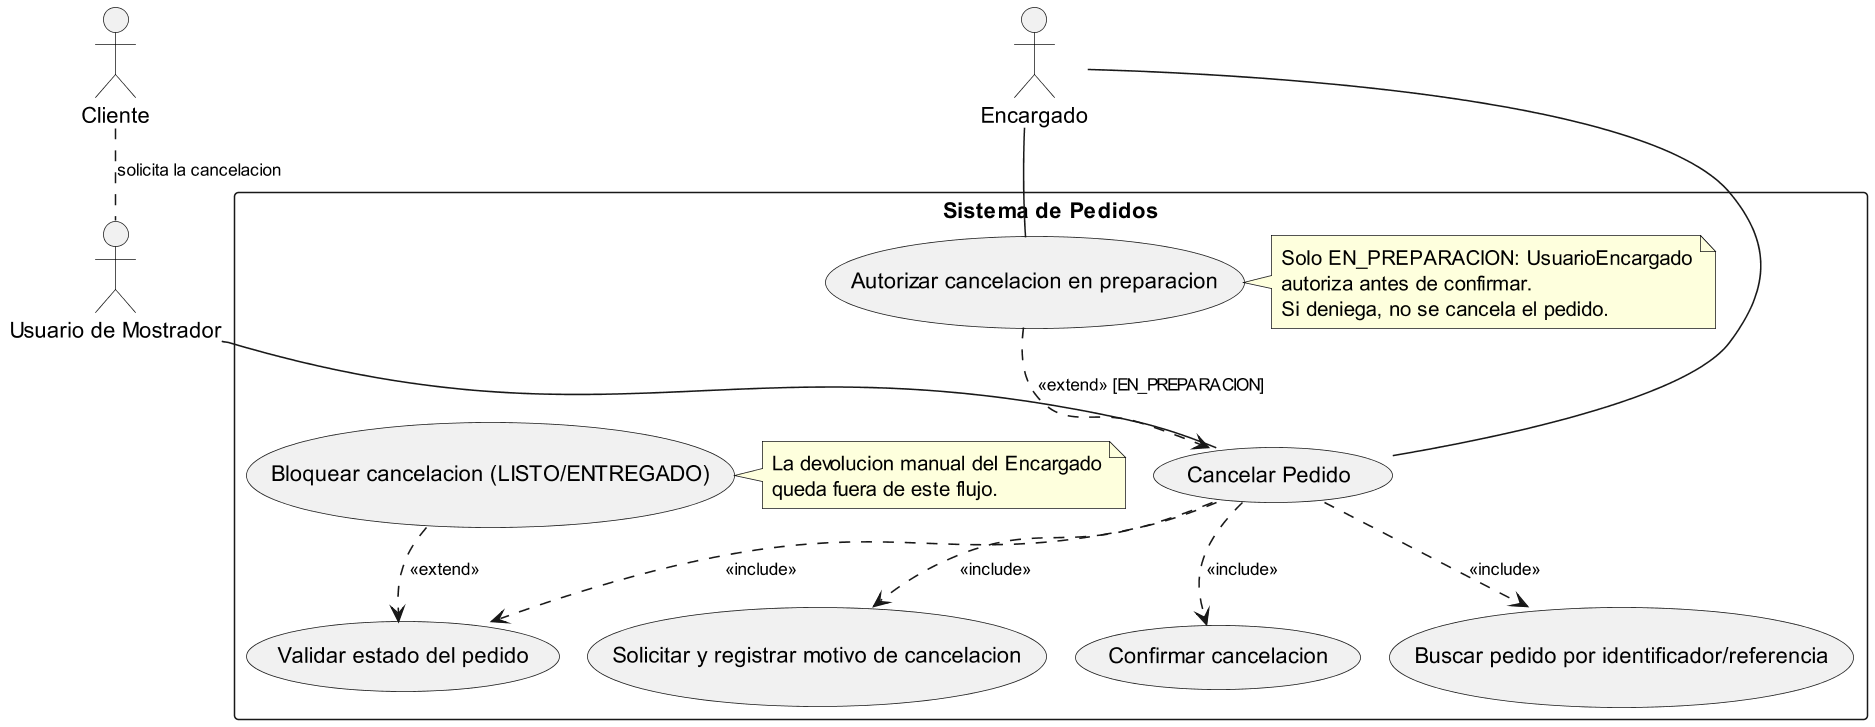
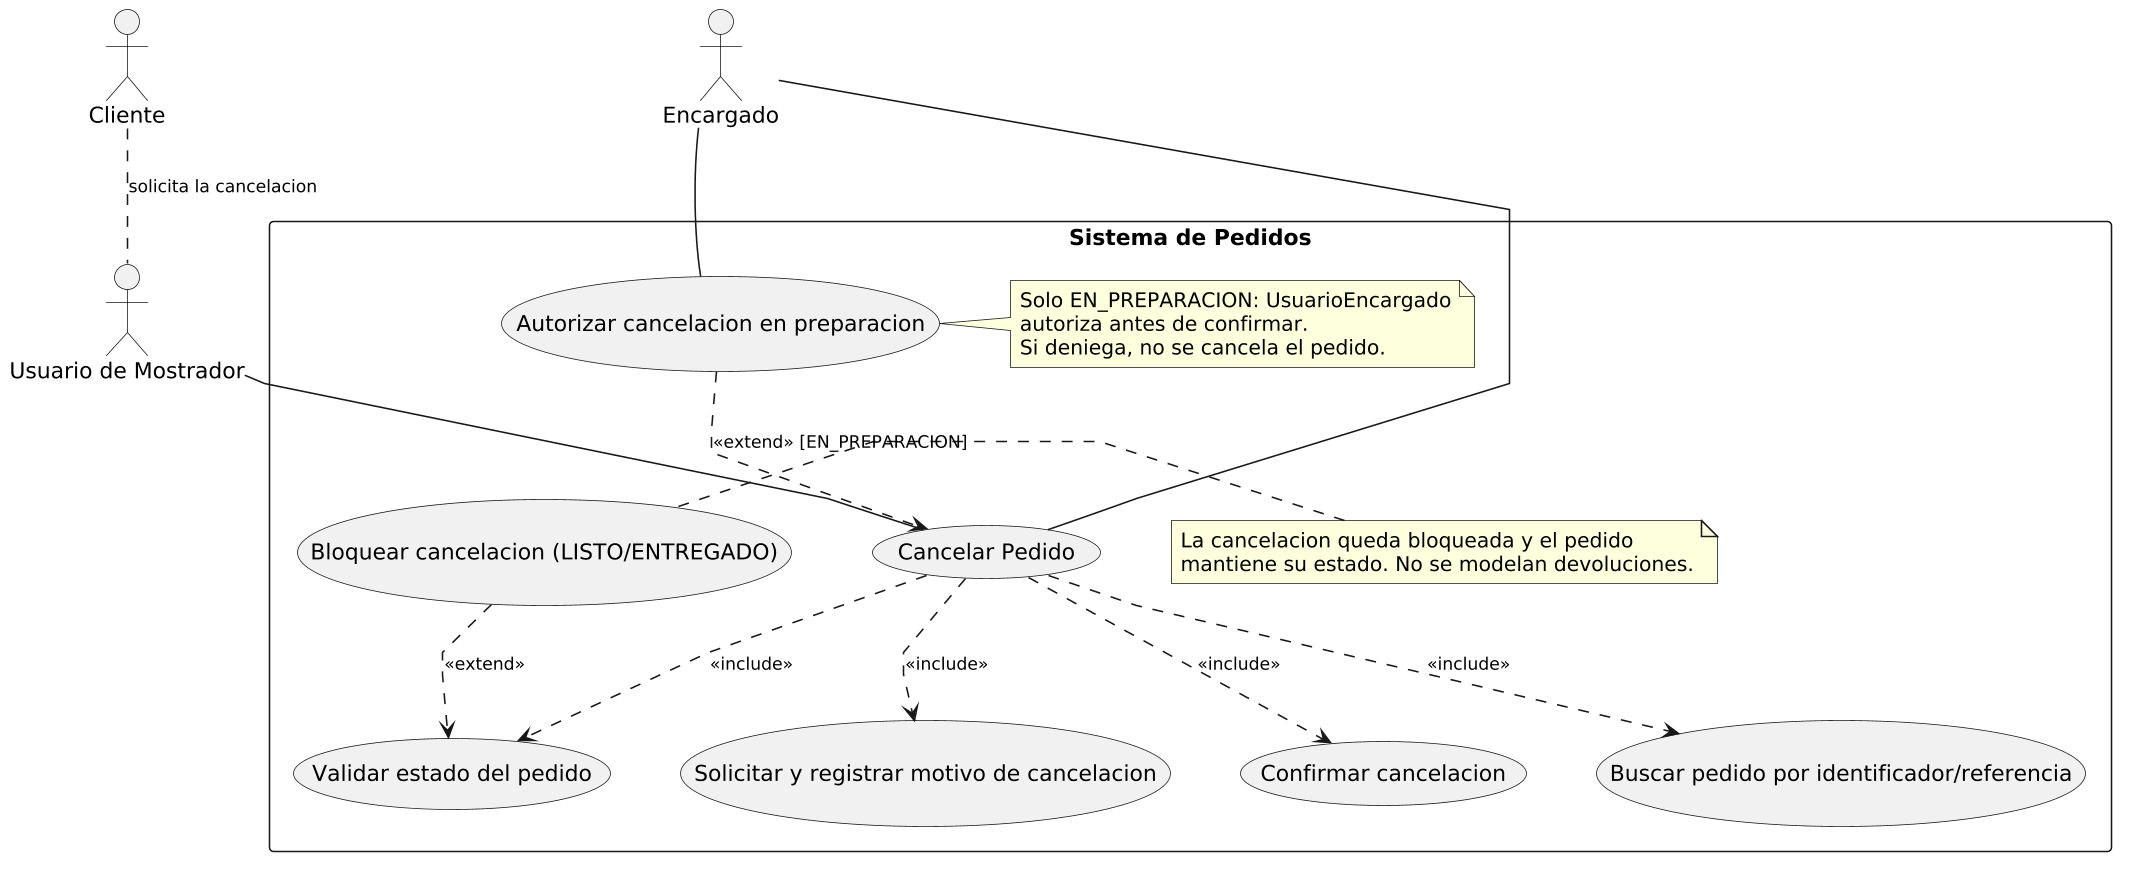
fix: dejo bloqueada la cancelación de pedidos LISTO o ENTREGADO sin devolución manual y marco el pago QR como extensión futura (RC21, RC22)

diff --git a/anexos/analisis-funcional/03-caso-de-uso-cancelar-pedido.md b/anexos/analisis-funcional/03-caso-de-uso-cancelar-pedido.md
@@ -28,7 +28,7 @@
 
 - **A1: Pedido en estado EN_PREPARACION.** El sistema solicita autorización del Encargado. Si la autorización es válida, permite continuar con el motivo y la confirmación de la cancelación.
 - **A2: Autorización denegada.** Si el Encargado no autoriza la operación o la clave de supervisión es incorrecta, el sistema rechaza la cancelación y mantiene el estado original del pedido.
-- **A3: Pedido en estado LISTO o ENTREGADO.** El sistema bloquea la cancelación automática e informa que la operación no está permitida.
+- **A3: Pedido en estado LISTO o ENTREGADO.** El sistema bloquea la cancelación, mantiene el estado original del pedido e informa que la operación no está permitida. El sistema no modela devoluciones de dinero: la cancelación de un pedido LISTO o ENTREGADO no está disponible en ningún flujo.
 - **A4: Cancelación no confirmada.** Si el usuario desiste de la operación, el sistema mantiene el estado original del pedido.
 - **A5: Pedido inexistente.** Si el sistema no encuentra el pedido solicitado, informa el error y finaliza la operación.
 - **A6: Pedido ya CANCELADO.** Si el pedido ya se encuentra cancelado, el sistema impide repetir la operación y conserva su estado definitivo.
@@ -39,7 +39,7 @@
 |---|---|---|
 | RF3 | **Seguimiento y visualización del estado del pedido.** El sistema debe permitir al personal visualizar sincronizadamente los pedidos activos y controlar su ciclo de vida mediante un único estado secuencial y restringido: *Recibido*, *En preparación*, *Listo*, *Entregado* y *Cancelado*, garantizando una única fuente de verdad para evitar duplicaciones. | Consulta el estado actual del pedido y registra su transición a CANCELADO cuando corresponde. |
 | RF5 | **Cancelación completa del pedido.** El sistema debe posibilitar la cancelación completa de un pedido activo antes de que sea entregado, asegurando que por razones de auditoría interna de caja el registro nunca se elimine físicamente de la base de datos y que pase de forma definitiva y permanente al estado *Cancelado*. | Cancela el pedido sin eliminarlo físicamente y conserva la información necesaria para auditoría. |
-| RF8 | **Registro de pago.** El sistema debe permitir asociar y registrar el cobro de cada pedido utilizando únicamente efectivo o transferencia bancaria (dejando fuera QR y tarjetas en esta fase); asimismo, si un pedido previamente pagado es modificado en estado *Recibido*, el sistema debe recalcular el total y permitir registrar el cobro o ajuste de la diferencia económica generada. | Conserva el pago original del pedido cancelado y sus movimientos para mantener su trazabilidad. La devolución automática no forma parte de este caso de uso. |
+| RF8 | **Registro de pago.** El sistema debe permitir asociar y registrar el cobro de cada pedido utilizando únicamente efectivo o transferencia bancaria (dejando fuera QR y tarjetas en esta fase); asimismo, si un pedido previamente pagado es modificado en estado *Recibido*, el sistema debe recalcular el total y permitir registrar el cobro o ajuste de la diferencia económica generada. | Conserva el pago original del pedido cancelado y sus movimientos para mantener su trazabilidad. La cancelación no registra cobros ni devoluciones, porque el sistema no modela devoluciones por cancelación. |
 
 ---
 
@@ -85,7 +85,7 @@
 
 - **¿El pedido está en estado EN_PREPARACION?**
   - **Sí:** el flujo se dirige a solicitar la autorización del Encargado.
-  - **No:** se rechaza la cancelación automática y finaliza el flujo.
+  - **No:** se bloquea la cancelación, el pedido mantiene su estado y finaliza el flujo.
 
 - **¿El Encargado autoriza la cancelación?**
   - **Sí:** el flujo continúa hacia la solicitud del motivo y la confirmación.
@@ -175,7 +175,7 @@ No se representa la destrucción explícita de objetos persistentes. El pedido, 
 
 **Justificación de la clase Pago:**
 
-La clase `Pago` se mantiene en el diagrama de clases porque representa el único pago original del pedido (multiplicidad `Pedido 1 — 1 Pago`), que debe conservarse incluso después de la cancelación para garantizar la trazabilidad y auditoría. Los ajustes y devoluciones se registran como movimientos de ese pago en `HistorialPago` (CU02); cualquier devolución por cancelación es manual y queda fuera de este flujo.
+La clase `Pago` se mantiene en el diagrama de clases porque representa el único pago original del pedido (multiplicidad `Pedido 1 — 1 Pago`), que debe conservarse incluso después de la cancelación para garantizar la trazabilidad y auditoría. Los ajustes y devoluciones se registran como movimientos de ese pago en `HistorialPago` (CU02); la cancelación no genera movimientos de pago, porque el sistema no modela devoluciones por cancelación.
 
 No participa directamente en el diagrama de secuencia porque el proceso de cancelación no contempla operaciones de cobro ni devolución.
 
@@ -305,8 +305,8 @@ No participa directamente en el diagrama de secuencia porque el proceso de cance
         SINO
 
             // Incluye los estados LISTO, ENTREGADO y CANCELADO.
-            // No se permite la cancelación automática.
-            // Las devoluciones manuales no forman parte de este CU.
+            // La cancelación queda bloqueada y el pedido mantiene su estado.
+            // El sistema no modela devoluciones por cancelación.
 
             Retornar "Cancelación no permitida"
 

diff --git a/diagramas/03-escenarios-casos-de-uso/03-cancelar-pedido-cancelacion-antes-entrega-03.md b/diagramas/03-escenarios-casos-de-uso/03-cancelar-pedido-cancelacion-antes-entrega-03.md
@@ -27,7 +27,7 @@
 3. Si autoriza, el sistema continúa desde el paso 4 de la ruta principal y registra al Encargado que autorizó junto al responsable de la cancelación en la auditoría.
 4. Si deniega, el pedido conserva su estado original: no se confirma ni se registra la cancelación.
 
-En `LISTO` o `ENTREGADO` no se realiza una cancelación automática; cualquier devolución manual por parte del Encargado se trata fuera de este flujo.
+En `LISTO` o `ENTREGADO` la cancelación queda bloqueada y el pedido mantiene su estado; el sistema no modela devoluciones por cancelación.
 
 | **Condiciones, suposiciones y preguntas** |                                                                                                                                                                                                                                                                                  |
 | ----------------------------------------- | -------------------------------------------------------------------------------------------------------------------------------------------------------------------------------------------------------------------------------------------------------------------------------- |
@@ -35,6 +35,6 @@ En `LISTO` o `ENTREGADO` no se realiza una cancelación automática; cualquier d
 | **Poscondiciones:**                       | El pedido queda en estado `CANCELADO`, el estado es final e irreversible y se conserva su registro histórico.                                                                                                                                                                    |
 | **Suposiciones:**                         | El pedido puede ser identificado mediante su número o referencia. El sistema permite conservar el historial de las operaciones realizadas.                                                                                                                                       |
 | **Requerimientos:**                       | RF3, RF5, RF8, RNF4, RNF5                                                                                                                                                                                                                                                        |
-| **Aspectos sobresalientes:**              | La cancelación de un pedido `EN_PREPARACION` requiere intervención del Encargado; un pedido `LISTO` o `ENTREGADO` no se cancela por el flujo automático. No existe borrado físico: se conservan pedido, ítems, pagos e historial, y cualquier devolución debe quedar registrada. |
+| **Aspectos sobresalientes:**              | La cancelación de un pedido `EN_PREPARACION` requiere intervención del Encargado; un pedido `LISTO` o `ENTREGADO` no se puede cancelar y el sistema no modela devoluciones por cancelación. No existe borrado físico: se conservan pedido, ítems, pagos e historial. |
 | **Prioridad:**                            | Alta                                                                                                                                                                                                                                                                             |
 | **Riesgo:**                               | Medio                                                                                                                                                                                                                                                                            |

diff --git a/anexos/introduccion.md b/anexos/introduccion.md
@@ -98,12 +98,14 @@ Representación visual:
                  +---------------+---------------+
                  |                               |
                  v                               v
-          [ PagoEfectivo ]               [ PagoDigital ]
+          [ PagoEfectivo ]            [ PagoTransferencia ]
                  |                               |
                  v                               v
-     "Registra ingreso en caja y      "Sincroniza con pasarela QR
-     calcula vuelto en efectivo"      y valida la acreditación online"
+     "Registra ingreso en caja y      "Registra la transferencia
+     calcula vuelto en efectivo"      y verifica su acreditación"
 ```
+
+Los dos medios del ejemplo son los únicos del alcance actual (RF8: efectivo y transferencia). Un pago con QR o con tarjeta sería una **extensión futura, fuera del alcance de esta fase**: bastaría con agregar una nueva clase que responda al mismo mensaje `procesarCobro()`, como muestra el diagrama del principio Abierto/Cerrado (OCP).
 
 # Requisitos iniciales del sistema
 ## Requisitos funcionales :
@@ -256,7 +258,7 @@ __Flujo principal de eventos:__
 
 __Flujos Alternativos:__
 1. Pedido en Preparación: Si Cocina ya inició la preparación (estado EN_PREPARACION), la cancelación se bloquea para el Usuario de Mostrador y requiere la autorización/intervención del Encargado.
-2. Pedido Listo o Entregado: El sistema impide la cancelación automática en los estados LISTO o ENTREGADO, requiriendo intervención y registro de devolución manual por parte del Encargado.
+2. Pedido Listo o Entregado: El sistema bloquea la cancelación en los estados LISTO o ENTREGADO; el pedido mantiene su estado y el sistema no modela devoluciones por cancelación.
 3. Desistimiento de Cancelación: Si el usuario o Encargado cancela la solicitud en el paso de confirmación, el sistema mantiene el pedido en su estado original sin aplicar cambios.
 
 

diff --git a/anexos/patrones-diseno/patron-de-diseno-de-comportamiento.md b/anexos/patrones-diseno/patron-de-diseno-de-comportamiento.md
@@ -111,7 +111,7 @@ Los métodos que provocan transición reciben `pedido` para que el objeto concre
 
 ### EstadoEntregado
 
-`EstadoEntregado` es un estado terminal. `validarTransicion(...)` rechaza cambios posteriores y `cancelarPedido(...)` impide devoluciones o cancelaciones mediante el cambio de estado ordinario. Esta restricción conserva la integridad del pedido una vez entregado. Implementa `obtenerEstado()` devolviendo `EstadoPedido.ENTREGADO`.
+`EstadoEntregado` es un estado terminal. `validarTransicion(...)` rechaza cambios posteriores y `cancelarPedido(...)` impide la cancelación (flujo alternativo A3 del CU3); el sistema no modela devoluciones por cancelación. Esta restricción conserva la integridad del pedido una vez entregado. Implementa `obtenerEstado()` devolviendo `EstadoPedido.ENTREGADO`.
 
 ### EstadoCancelado
 

diff --git a/herramientas-agile/tarjetas-crc/16-tarjeta-crc-usuario-encargado.md b/herramientas-agile/tarjetas-crc/16-tarjeta-crc-usuario-encargado.md
@@ -4,6 +4,6 @@
 | **Superclase:** |Usuario | | |
 | **Subclase:** | | | |
 | **Responsabilidades** | **Colaboradores** | **Pensamiento del objeto** | **Propiedad** |
-| Autorizar cancelaciones y devoluciones manuales | Pedido | Superviso y tengo permisos para operaciones críticas | claveSupervision |
+| Autorizar la cancelación de pedidos EN_PREPARACION | Pedido | Superviso y tengo permisos para operaciones críticas | claveSupervision |
 | Ingresar y validar la clave de supervisión cuando ServicioPedidos solicita autorización | ServicioPedidos, PantallaPedidos | | |
 |  |  |  |  |
